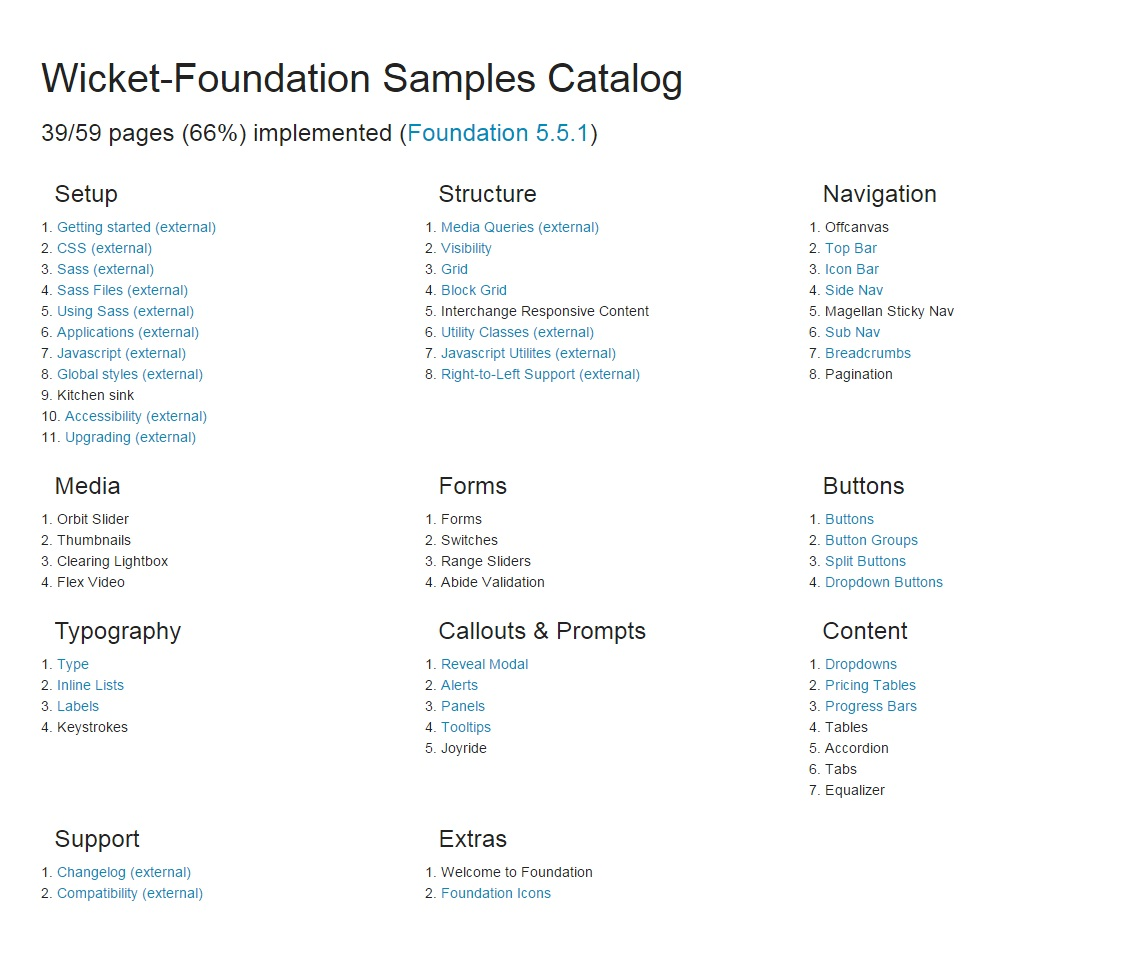
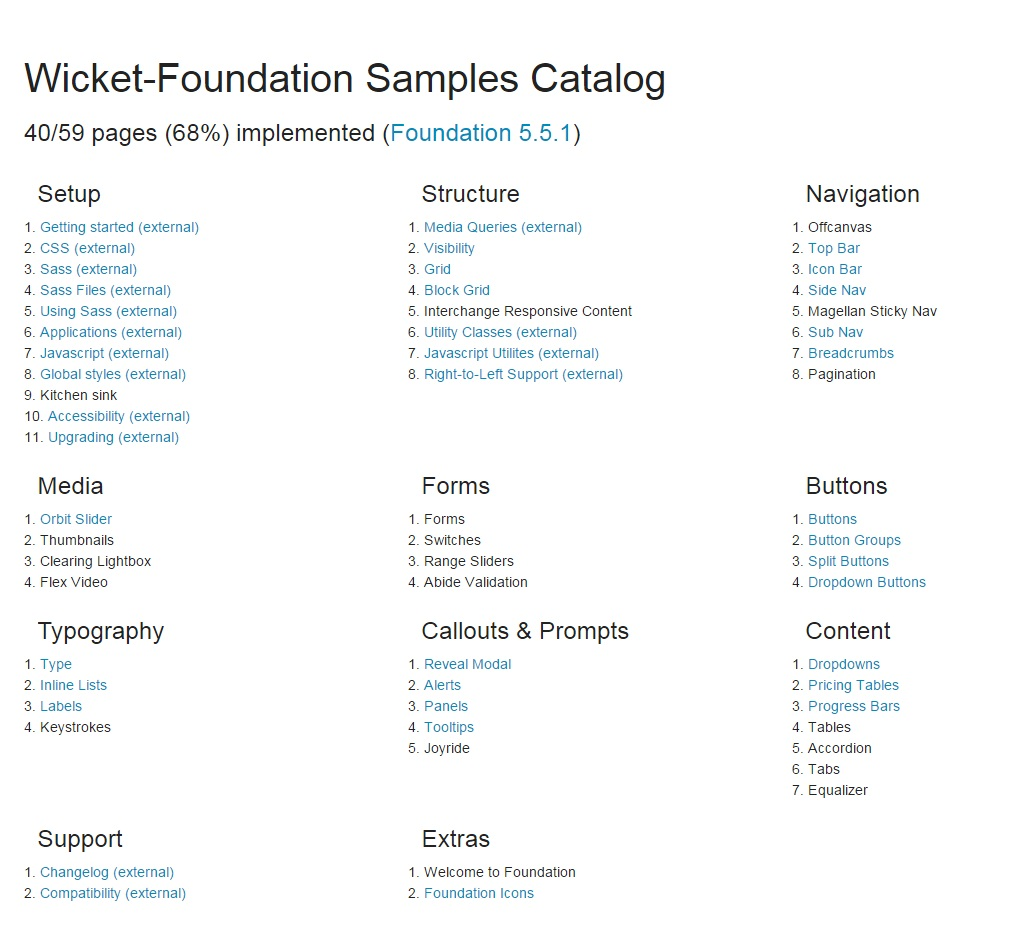
Updated catalog page and screenshot.

diff --git a/wicket-foundation-samples/src/main/java/com/iluwatar/CatalogPage.html b/wicket-foundation-samples/src/main/java/com/iluwatar/CatalogPage.html
@@ -11,7 +11,7 @@
 		<h1>Wicket-Foundation Samples Catalog</h1>
 	</div>
     <div class="row">
-      <h3>39/59 pages (66%) implemented (<a href="http://foundation.zurb.com/" target="blank">Foundation 5.5.1</a>)</h3>
+      <h3>40/59 pages (68%) implemented (<a href="http://foundation.zurb.com/" target="blank">Foundation 5.5.1</a>)</h3>
     </div>
 
     <p>
